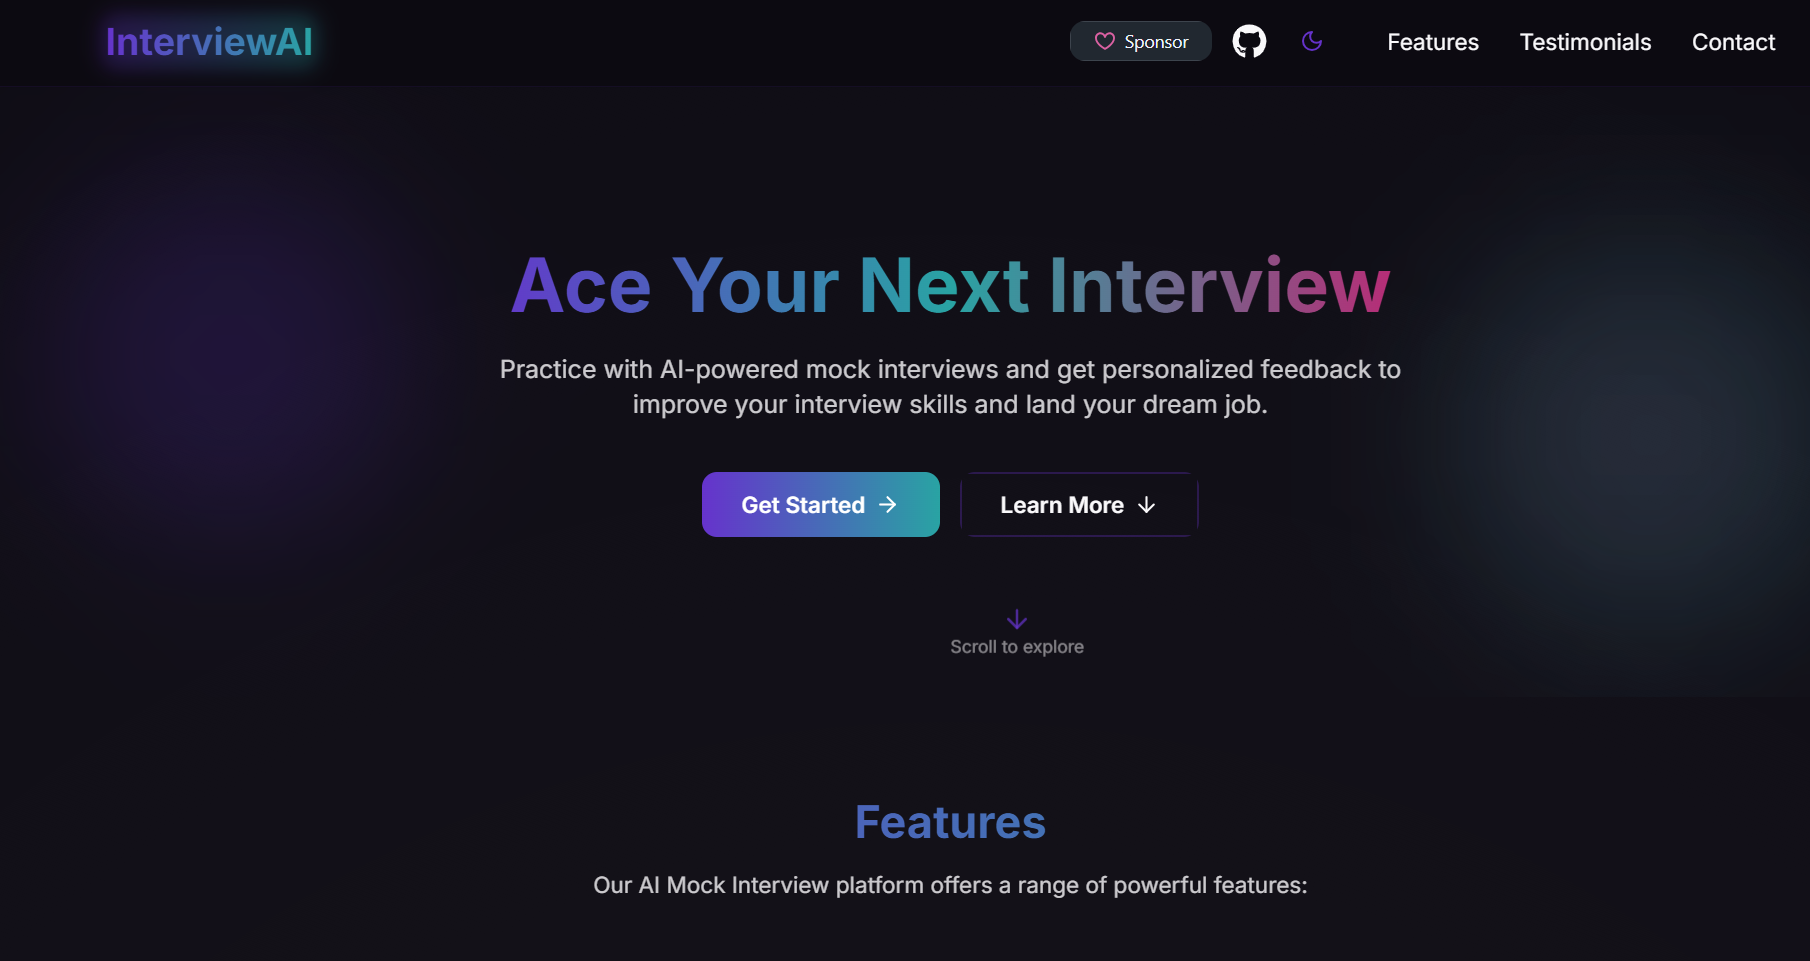
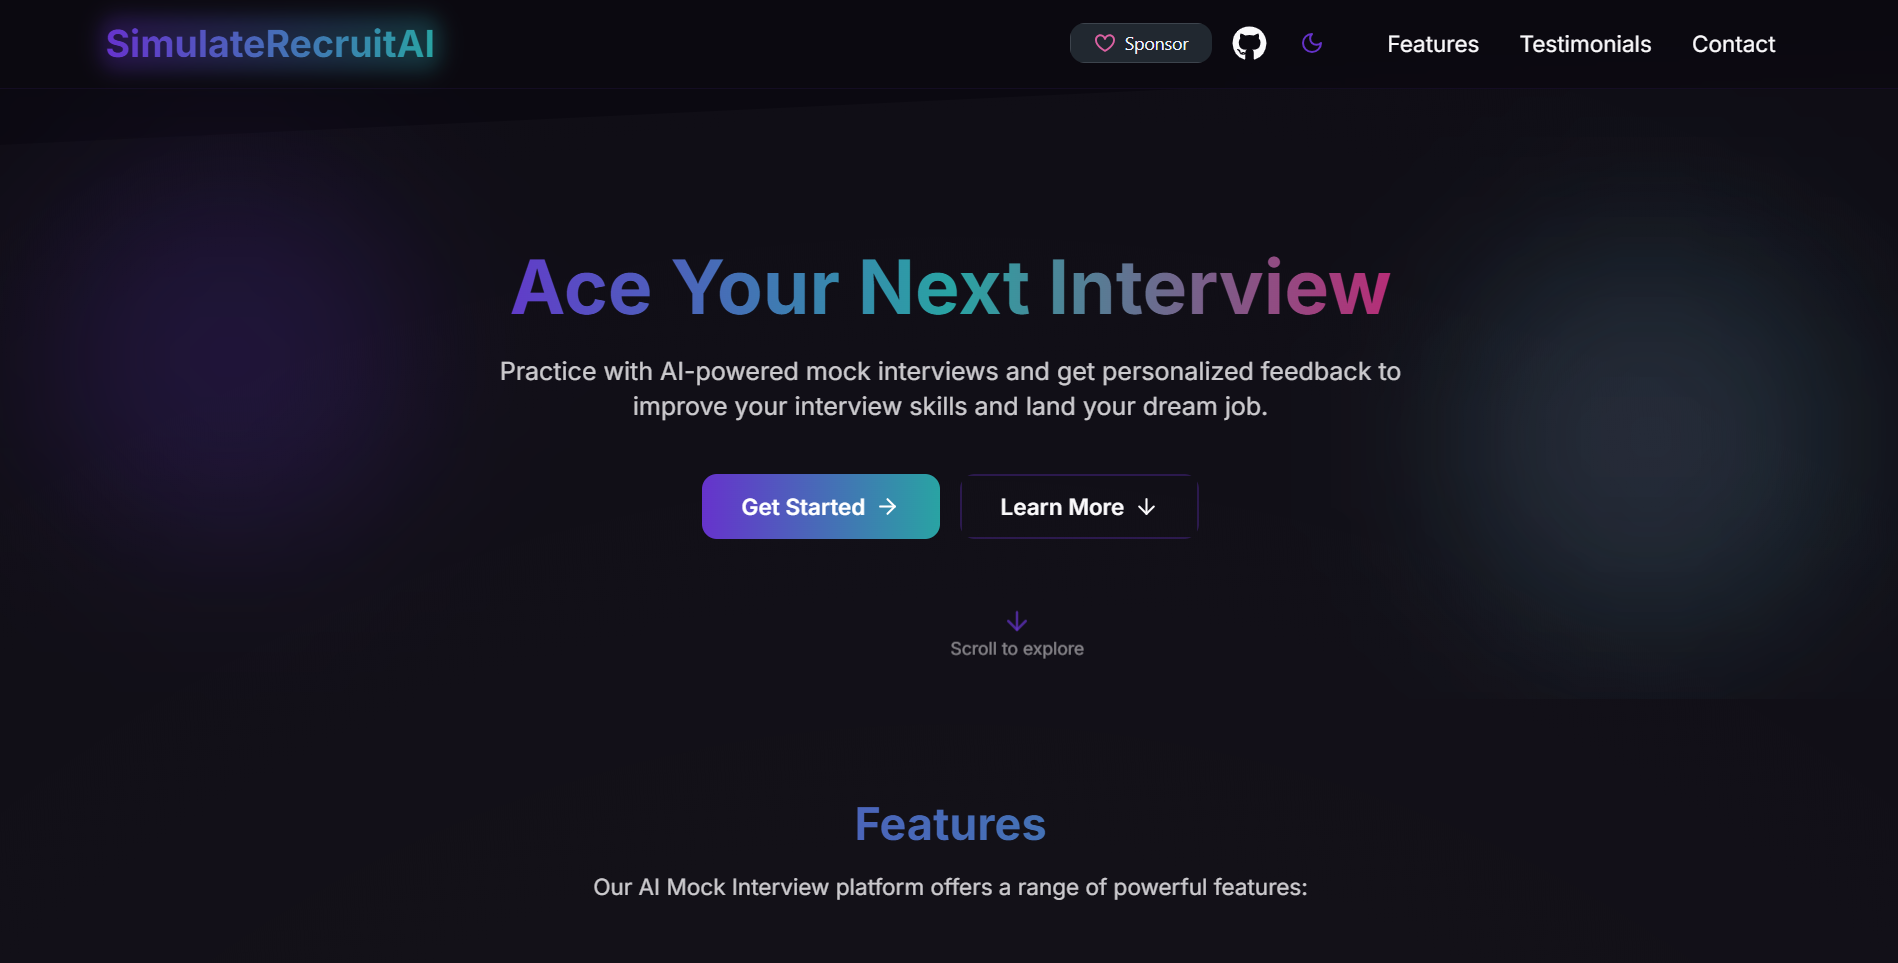
Edit: Project name

diff --git a/src/constants/index.js b/src/constants/index.js
@@ -283,7 +283,7 @@ const achievements = [
 
 const projects = [
   {
-    name: "InterviewAI",
+    name: "SimulateRecruitAI",
     description:
       "Gemini delivers live interview feedback via Next, NeonDB, Docker, Clerk, Stripe & Tailwind integration across 50+ roles.",
     tags: [